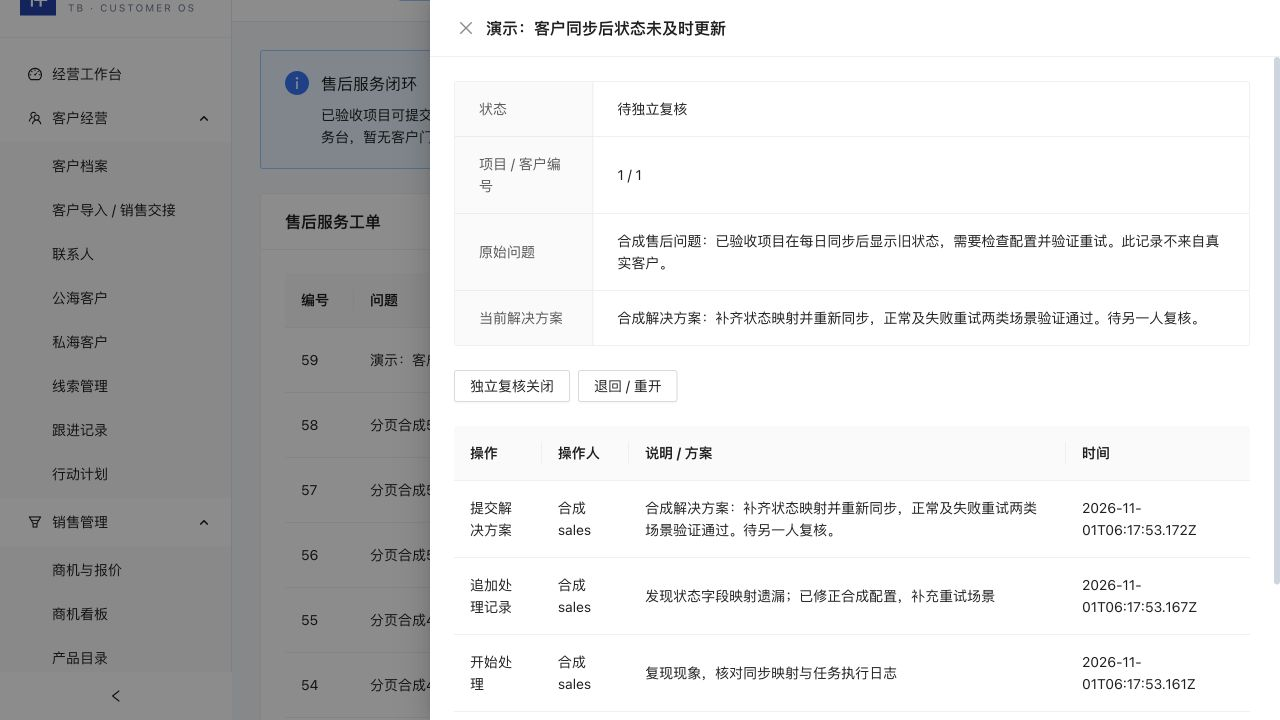
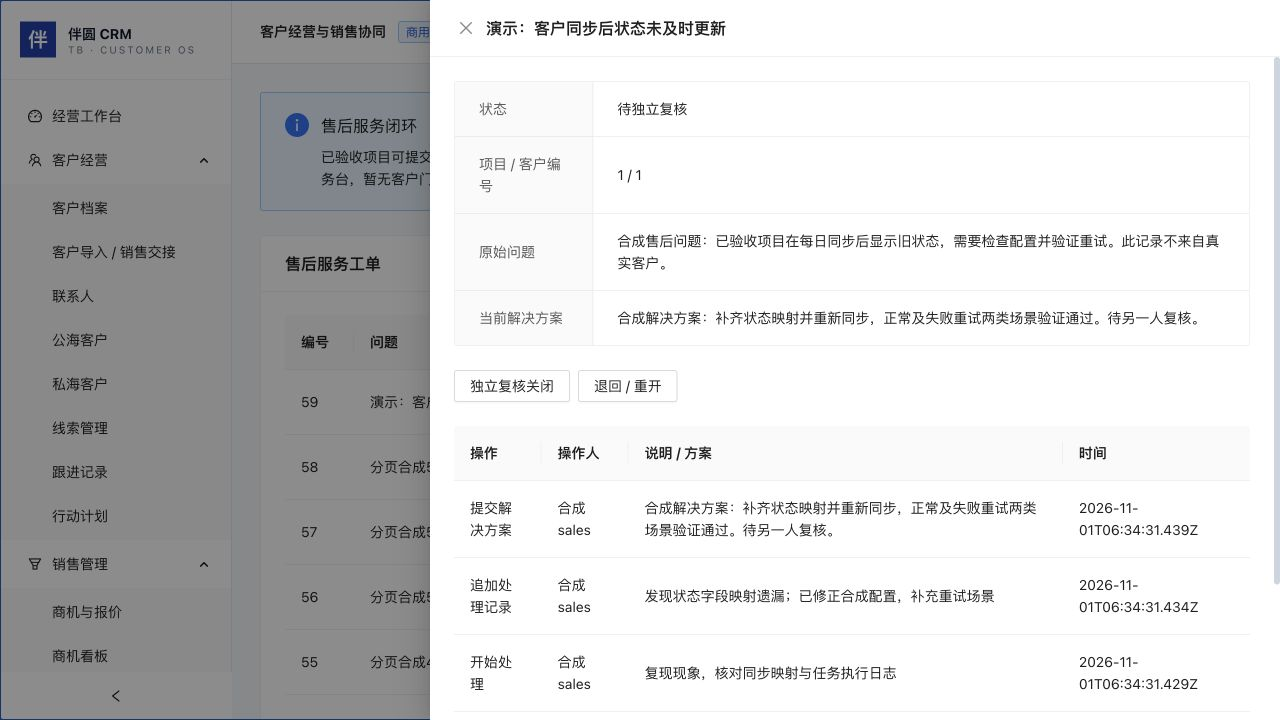
docs(service): record recovery, inbox UI and upgrade evidence

diff --git a/docs/PROGRESS.md b/docs/PROGRESS.md
@@ -6,11 +6,13 @@
 
 新增两张表的独立迁移，不改写旧验收。共享ServiceTicketService、1.0 JSON Schema契约、50条稳定编号分页；成功写入在Serializable事务中原子保存工单、事件、幂等回执和审计，晚期失败全回滚。售后写入暂不开放到代理/MCP，问题文本保持数据。
 
-本地`pnpm check`通过：164项API+4项安装/加密自动化及类型/lint/build。111项最新真实MySQL（后缀1793514751）验证身份/企业/行范围、复核、重办/取消、幂等并发、晚期事件故障原子回滚、离职前转派、跨部门工单协作不授予项目、分页、非空加密新库恢复与旧会话失效。另重新验证365项业务主链和126项人员/会话（后缀1793513792），本轮另复跑财务325项，合计以本批最终结果为准；不将此前99/103/108项初轮重复累计。
+本地`pnpm check`通过：164项API+4项安装/加密自动化及类型/lint/build。111项最新真实MySQL（后缀1793514751）验证身份/企业/行范围、复核、重办/取消、幂等并发、晚期事件故障原子回滚、离职前转派、跨部门工单协作不授予项目、分页、非空加密新库恢复与旧会话失效。另重新验证365项业务主链和126项人员/会话（后缀1793513792），本轮另复跑财务326项（后缀1793514860，含确定性时间戳碰撞回归），共928项本轮本地真实数据库检查；不将此前99/103/108项初轮重复累计。
 
 增补事务内站内通知：指派、解决待复核、关闭、重开、取消，通知只保留工单编号/状态，不复制客户问题或方案正文；重复回执不重复通知，追加通知落库故障的晚期回滚测试。通知可打开工单，读取仍重检权限。
 
-合成3018页面已核对工单列表、已验收项目选择框、待复核解决方案和处理历史，浏览器仅读取/打开表单；合成业务准备通过HTTP进行，不混入原演示数据。手册及截图见SERVICE_TICKET_OPERATIONS。首版267ab4a的九组MySQL中售后及其余七组通过，财务投影检查未通过，定位为全JSON搜索金额字符串4.25会误匹配14.25秒等ISO时间戳；改为严格断言更正事件说明及证据仅允许actorName/redacted字段，未放宽服务端投影。该回归修正及新增通知的最终云端结果待更新。原演示升级前私有备份，68张既有表行数不变；新增两张售后表为空，四角色12345登录和代理/审批/财务/售后读取通过，其余68张表保持行数，只有会话/审计各增加4条预期登录。当前仍缺私有附件、SLA自动升级、外发/客户门户和整体验收，不声称所有商用内容完成。
+[PR #12](https://github.com/osborn-studio/os-crm/pull/12)基于PR #11，未合并。合成3018页面已核对通知编号/状态及查看工单链接，点击后实际打开对应待复核详情；未在浏览器提交复核。
+
+合成3018页面已核对工单列表、已验收项目选择框、待复核解决方案和处理历史，浏览器仅读取/打开表单；合成业务准备通过HTTP进行，不混入原演示数据。手册及截图见SERVICE_TICKET_OPERATIONS。首版267ab4a的九组MySQL中售后及其余七组通过，财务投影检查未通过，定位为全JSON搜索金额字符串4.25会误匹配14.25秒等ISO时间戳；改为严格断言更正事件说明及证据仅允许actorName/redacted字段，加入固定14.250秒可重复碰撞fixture验证，未放宽服务端投影。该回归修正及新增通知的最终云端结果待更新。原演示升级前私有备份，68张既有表行数不变；新增两张售后表为空，四角色12345登录和代理/审批/财务/售后读取通过，其余68张表保持行数，只有会话/审计各增加4条预期登录。当前仍缺私有附件、SLA自动升级、外发/客户门户和整体验收，不声称所有商用内容完成。
 
 
 ## C7 独立智能体委托与受控行动第一批
